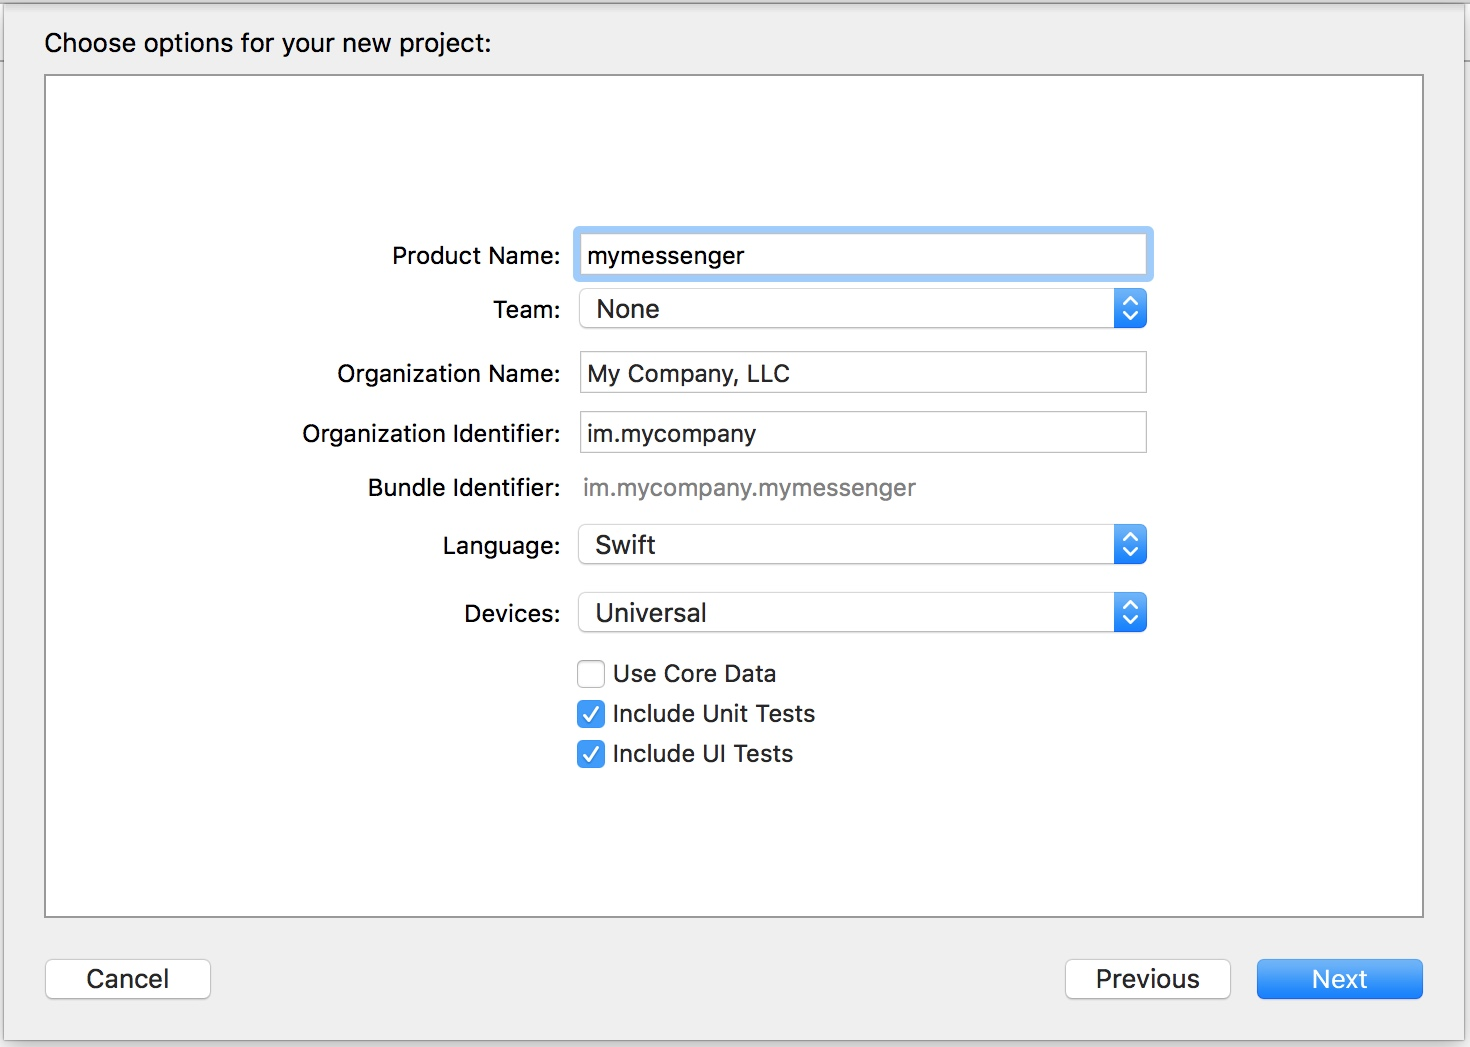
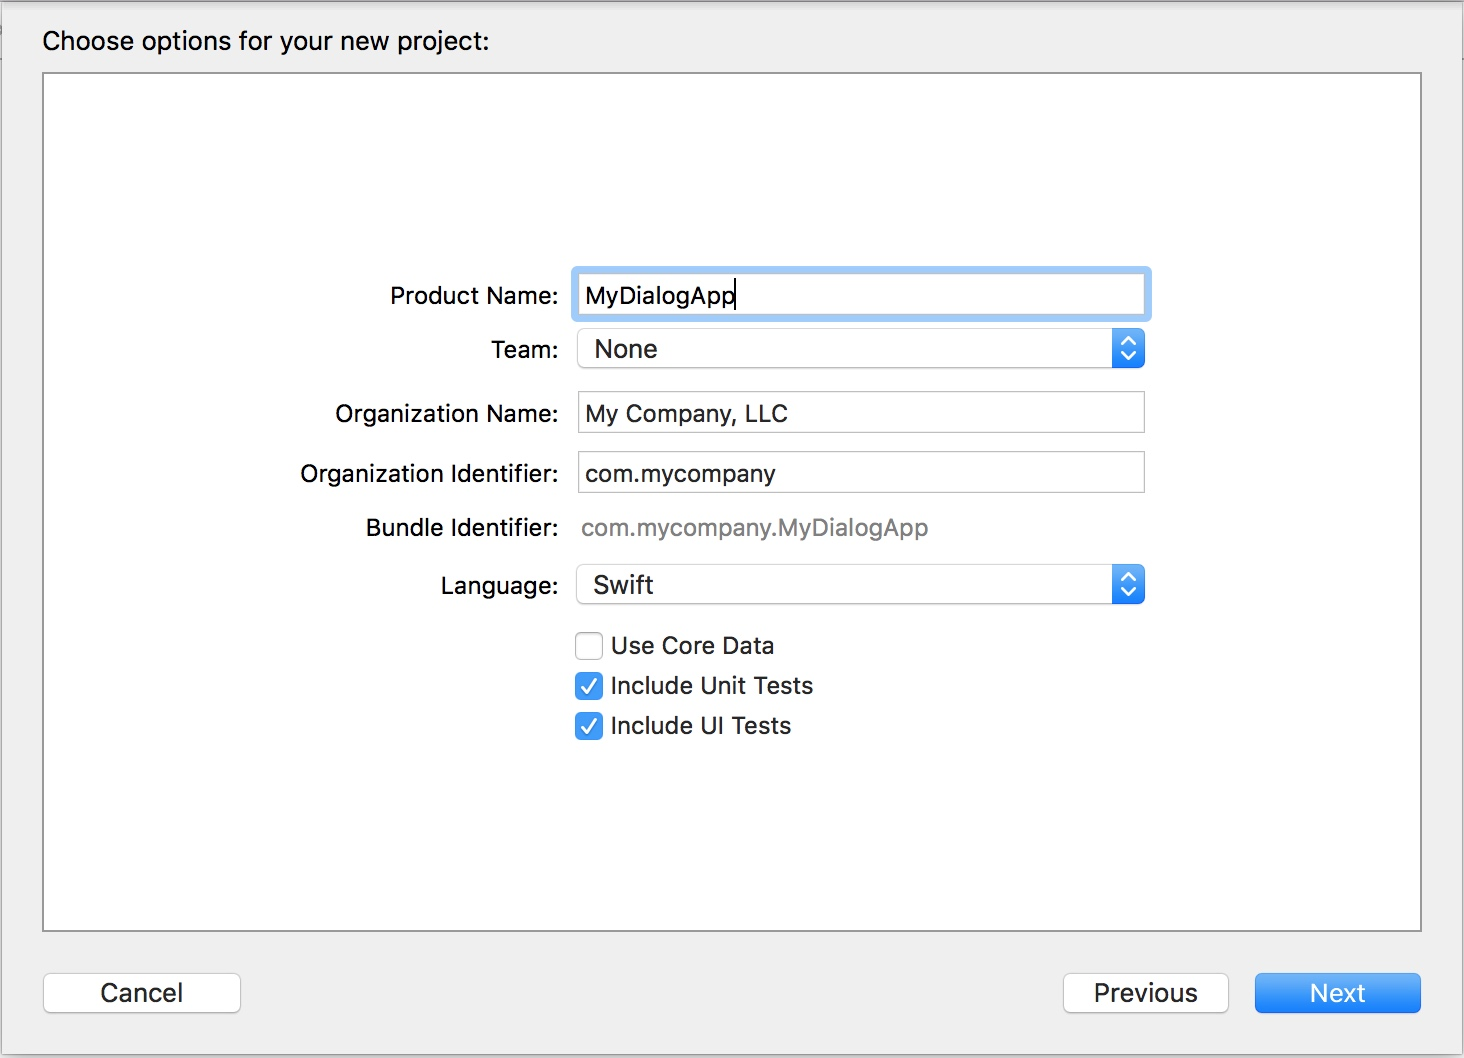
ios(fix): ios app guide updated

Changed region(s): [[0.0, 0.0, 1.0, 1.0], [0.1844, 0.2139, 0.7992, 0.7335], [0.7377, 0.489, 0.7992, 0.6113]]

diff --git a/ios/share-extension.rst b/ios/share-extension.rst
@@ -1,0 +1,206 @@
+.. _share-extension-ios-label:
+
+Share Extension guide
+=====================
+
+To include app share extension it requires to perform two tasks. You need to apply specific project settings and install share extension from a separate CocoaPod.
+
+
+Project configuration steps
+---------------------------
+
+----------------------------------------------------------------------------------------
+Prepare App Group (this one is needed for sharing information between app and extension)
+----------------------------------------------------------------------------------------
+
+* Create application group if it does not exist.
+* Go to developer portal (developer.apple.com), authorize if needed.
+* Go to "Certificates, IDs & Profiles", then go to App Groups.
+* If there is no group or you want to create a new one – create it. Follow page instructions. The easiest way to set unique identifier for app group is add word "group." to you app id (so if you app id is "my.app.identifier” proposed app group id will be "group.my.app.identifier").
+* Remember or write down anywhere chosen application group identifier. From this point we will name it "App Group ID".
+
+
+-------------------------
+Enable App Groups for app
+-------------------------
+
+To be able to use declared app groups you should update your application identifier on developer portal.
+
+* Go to portal again and then to "Certificates, IDs & Profiles". Then select "App IDs". Find and expand app item with your app id. Tap "Edit".
+* Find and turn on App Groups. If portal warning you must regenerate profile for enabling App Groups – agree.
+* Tap "Edit" button agains turned on App Groups. Select group that you created before ("App Group ID"). Sure that selected group is the same you created in the section *Prepare App Group*.
+* Press "Continue" button below. Then press "Assign" button below to confirm changes. Then press "Done" below to return to your App IDs list.
+
+------------------------------------
+Add Share Extension App ID on portal
+------------------------------------
+
+* Go to developer portal (developer.apple.com), authorize if needed.
+* Go to "Certificates, IDs & Profiles”, then go to App IDs.
+* Add a new one by clicking plus on top.
+* Name it as you wish (recommended is <App Name> Share).
+* Set identifier from you target (normally, it's "my.app.identifier.Share")
+* Scroll down to App services and check App Groups.
+* Register new App ID by pressing "Continue" and then "Register" button on the bottom.
+
+-------------------------------------
+Enable App Groups for Share Extension
+-------------------------------------
+
+To be able to use declared app groups you should update your Share Extension identifier on developer portal.
+
+* Go to portal again and then to "Certificates, IDs & Profiles".
+* Select "App IDs", find and expand extension item with your app id, tap "Edit".
+* Find and turn on App Groups. If portal warning you must regenerate profile for enabling App Groups – agree.
+* Tap "Edit" button agains turned on App Groups. Select group that you created before ("App Group ID"). Sure that selected group is the same you created in the section *Prepare App Group*.
+* Press "Continue" button below. Then press "Assign" button below to confirm changes. Then press "Done" below to return to your App IDs list.
+
+
+---------------------------
+Update Provisioning profile
+---------------------------
+
+* Go to portal again and then to "Certificates, IDs & Profiles".
+* Go to All Provisioning Profiles (select "All" under “Provisioning profiles” on the left panel).
+* At this moment you probably have provisioning profiles (like development, ad hoc, distribution and so on). If you already have profiles – now they are probably marked as invalid, so you should recreate them.
+* Select profile, tap "Edit", and on the new screen tap "Generate" below. Download it and open.
+* If you have no profile – just create a new ones. Creating new profile is off-topic for this article.
+
+**Pay attention: you need separate profiles for Share extension!**
+
+----------------------------
+Add target "Share Extension"
+----------------------------
+
+* Go to File → New → Target….Choose "Share Extension". Name it as you wish (this is not the name for user), like "Share". If you see alert titled "Activate scheme?" – activate scheme.
+* Verify that you have two targets: one is an application and other is Share extension. For doing that select your project on the project navigation panel on the left and check content of the panel on the right. There should be at least two targets: one is for application and another one is for share extension. Turn off manual code signing if needed.
+
+----------------------------------------
+Configure App Group and keychain for app
+----------------------------------------
+
+* Return to your project. Select your project file. Select application target and go to “Capabilities” tab.
+* Scroll down to the "Keychain Sharing". Turn it on. By default Xcode creates group names the same as your app id. It’s ok to use it. If there is no keychain group – add it and name it the same as your app like ("my.app.identifier").
+* Scroll down to the "App Groups", turn it on and select group with App Group Id your created in step 1. If there is no group you've just created on portal or you see error icon with "Add the App Groups feature to your App ID" – make sure that you have internet connection and wait for a while.
+
+----------------------------------------------
+Configure App Group and keychain for extension
+----------------------------------------------
+
+* Select you project file, in targets select share extension.
+* Repeat steps from the section *Configure App Group and keychain for app* for selected share extension target.
+
+**Pay attention: Xcode adds your target name as a prefix in keychain id by default, so it looks like "my.app.identifier.Share". That is not right, id should be "my.app.identifier"!**
+
+
+----------------------
+Check everything is OK
+----------------------
+
+Return to your project. Make sure that error "Add the App Groups feature to your App ID" in your targets is no more shown. If you have mistakes – quit xCode and then open workspace again. If errors won’t disappear – try to turn off App Groups, turn it on again and then select needed group.
+
+
+----------------------------
+Fix signing issues if needed
+----------------------------
+
+It’s supposed that you use automatically code signing for extension (no matter what type of signing you use for app), because in that case no extra profiles needed. You’re responsible for fixing signing if you met some problems.
+In that case you usually create another 3 (or more) profiles for Share (like development, ad hoc, distribution).
+
+
+Implementing of Share Extension
+-------------------------------
+
+
+----------------
+Fix dependencies
+----------------
+
+Add pod 'DialExt:
+
+.. code-block
+
+    target 'Share' do
+        pod 'DialExt', :git => 'ssh://git@bitbucket.transmit.im:7999/dlg/dialext.git'
+    end
+
+
+----------------
+Install Dial Ext
+----------------
+
+Open terminal and go to the folder with project where Podfile placed, like "cd ~/Projects/ClientFolder".
+Remove Pods folder and Podfile.lock file and the perform "pod install".
+
+------------------------------------------
+Remember or write down your Keychain Group
+------------------------------------------
+
+Your keychain group will be the following: <TeamID>.<KeychainGroup>, where TeamID is your development Team ID from developer portal (on the Membership page) and KeychainGroup is string that you set in Capabilities for targets.
+I. e. if your Team ID is 123A4567B38 and group is "my.app.identifier" your keychain group will be "123A4567B38.my.app.identifier"
+
+-----------------------------------
+Implement extension view controller
+-----------------------------------
+
+Find in Share files group file “ShareViewController” (it was created automatically by Xcode).
+Fill empty spaces with your keychain group (like “123A4567B38.my.app.identifier”), app group (like "group.my.app.identifier", don't forget group prefix!) and server API address (that would be probably look like https://<#server-address#>/v1/messaging):
+
+.. code-block
+
+    import UIKit
+    import DialExt
+
+    @objc(ShareViewController) class ShareViewController: DESharedDialogsPresentationViewController {
+        override var config: DESharedDataConfig! {
+        return DESharedDataConfig(keychainGroup: "<#Keychain Group#>", appGroup: "<#App Group ID#>", uploadURLs: [URL.init(string: "<#your https api#>")!])
+        }
+    }
+
+-------------------------
+Fix Extension entry point
+-------------------------
+
+* Remove MainInterface.storyboard from Share files group.
+* Open Info.plist, find NSExtension (if there is no key with such name – create a new one, value is Dictionary). Add entry with key: NSExtensionPrincipalClass, value: ShareViewController.
+* Check Main interface field of Share tagret (under “Deployment Info” in General tab) is empty now. If it still contains “MainInterface” – remove it.
+* Change "Bundle display name" to something else (the original name of your app is good).
+
+---------------------------------------------
+Configure SDK to sharing files with extension
+---------------------------------------------
+
+* Go to AppDelegate of your app target.
+* Add following code in place where you configuring SDK:
+
+.. code-block
+
+    let sharedDataConfig = DialogSDK.SharedDataConfig.init(group:"<#App Group ID#>", keychainGroup: "<#Keychain Group#>")
+    DialogSDK.sharedDialog().sharedDataConfig = sharedDataConfig
+
+-------------------------
+Configure Activation Rule
+-------------------------
+
+Activation Rule describes condition, when an item can be shared using share extension.
+Apple does not allow sharing any files, but we provide legal rule, which allowed to share any item that can be represented as Data (bytes sequence).
+
+Select Share target, go to "Info" tab. Expand NSExtension, then expand NSExtensionAttributes. You'll see NSExtensionActivationRule which probably has value "NSTruePredicate". This value is for debug only and your app will be rejected at the review stage because of this. Change the value to predicate:
+
+.. code-block
+
+    SUBQUERY (
+        extensionItems,
+        $extensionItem,
+        SUBQUERY (
+            $extensionItem.attachments,
+            $attachment,
+            ANY $attachment.registeredTypeIdentifiers UTI-CONFORMS-TO "public.data"
+        ).@count == 1
+    ).@count == 1
+
+----------------------------------
+Manage automatic signing if needed
+----------------------------------
+
+If you have problem with automatic signing – create specified profile for extension (probably you want 3 profiles: development, ad hoc and production, optionaly – another one production for CI) and set it in share extension target.

diff --git a/ios/quick-start-guide.rst b/ios/quick-start-guide.rst
@@ -35,7 +35,7 @@ Close xCode and go to the CocoaPods setup.
 CocoaPods setup
 ---------------------
 
-Create **Podfile** in the project root (in the same directory as the **mymessenger.xcodeproj**):
+Create **Podfile** in the project root (in the same directory as the **mydialogapp.xcodeproj**):
 
 .. image:: assets/quick-start-guide/podfile-location.jpg
    :width: 325 px
@@ -46,26 +46,95 @@ Podfile is a plain text file containing the following values:
 
 .. code-block:: xml
 
-    platform :ios, '9.0'
+    platform :ios, '10.0'
     use_frameworks!
 
-    workspace 'mymessenger'
-    xcodeproj 'mymessenger.xcodeproj'
+    workspace 'MyDialogApp'
+    project 'MyDialogApp.xcodeproj'
 
-    target 'mymessenger' do
+    def common_pods
+        pod 'DialExt', :git => 'ssh://git@bitbucket.transmit.im:7999/dlg/dialext.git'
+        pod 'DLGSodium', :git => 'https://github.com/dialogs/swift-sodium.git'
+        pod 'ProtocolBuffers-Swift', '3.0.24'
+        pod 'DiaLogSentry', :git => 'ssh://git@bitbucket.transmit.im:7999/dlg/dialogsentry.git'
+        pod 'RxCocoa',    '~> 3.0'
+    end
 
-    pod 'DialogSDK-iOS' , :git => 'https://bitbucket.transmit.im/scm/dlg/sdk-ios-pod.git'
-    xcodeproj 'mymessenger.xcodeproj'
+    target 'MyDialogApp' do
+
+        pod 'DialogSDK-iOS' , :git => 'https://bitbucket.transmit.im/scm/dlg/sdk-ios-pod.git'
+        pod 'DialogWebRTC', :git => 'https://bitbucket.transmit.im/scm/dlg/dialog-webrtc-ios-pod.git', :tag => '63.2.20237'
+        pod 'FeltPen', :git => 'ssh://git@bitbucket.transmit.im:7999/dlg/feltpen.git'
+        pod 'RxSwift',   :git => 'https://github.com/dialogs/RxSwift.git', :branch => 'fix/signatures'
+
+        pod 'ClosePixelate'
+
+        # React
+        system "yarn install"
+        pod 'React', :path => './node_modules/react-native', :subspecs => [
+            'Core',
+            'RCTText',
+            'RCTImage',
+            'RCTNetwork',
+            'BatchedBridge',
+            'RCTAnimation'
+        ]
+        pod 'Yoga', :path => './node_modules/react-native/ReactCommon/yoga'
+        pod 'BVLinearGradient', :path => './node_modules/react-native-linear-gradient'
+
+        common_pods
 
     end
 
-Open **Terminal** and run ``pod install``. The installation process can take a few minutes, depending on the speed of the Internet connection. Loading of the framework (``Pre-downloading: `DialogSDK-iOS```) takes most of the time.
 
-.. image:: assets/quick-start-guide/pod-install.jpg
-   :width: 600 px
-   :align: center
+    post_install do |installer|
 
-The **mymessenger.xcworkspace** file should appear in the project directory. Double click on it, the xCode will open (it's important to open this file, not **mymessenger.xcodeproj**). Note: if you are using the Git version control system, it is recommended to add the following configuration to the **.gitignore** (otherwise you will get several gigabytes of dependencies in your Git-repository):
+        # Fix for
+        # https://github.com/CocoaPods/CocoaPods/issues/7003
+        copy_pods_resources_path = "Pods/Target Support Files/Pods-MyDialogApp/Pods-MyDialogApp-resources.sh"
+        string_to_replace = '--compile "${BUILT_PRODUCTS_DIR}/${UNLOCALIZED_RESOURCES_FOLDER_PATH}"'
+        assets_compile_with_app_icon_arguments = '--compile "${BUILT_PRODUCTS_DIR}/${UNLOCALIZED_RESOURCES_FOLDER_PATH}" --app-icon "${ASSETCATALOG_COMPILER_APPICON_NAME}" --output-partial-info-plist "${BUILD_DIR}/assetcatalog_generated_info.plist"'
+        text = File.read(copy_pods_resources_path)
+        new_contents = text.gsub(string_to_replace, assets_compile_with_app_icon_arguments)
+        File.open(copy_pods_resources_path, "w") {|file| file.puts new_contents }
+
+
+        installer.pods_project.targets.each do |target|
+            if target.name == 'DialExt'
+                target.build_configurations.each do |config|
+                    config.build_settings['SWIFT_VERSION'] = '4.0'
+                end
+            end
+        end
+    end
+
+
+Create **package.json** file in the project root. It contains the following values:
+
+.. code-block:: json
+
+    {
+      "name": "MyReactNativeApp",
+      "version": "0.0.0",
+      "private": true,
+      "scripts": {
+        "start": "node node_modules/react-native/local-cli/cli.js start",
+        "build": "node node_modules/react-native/local-cli/cli.js bundle --platform ios --dev false --entry-file coop-connect/js/index.js --bundle-output coop-connect/Resources/coop.jsbundle --assets-dest coop-connect/Resources/react-native",
+        "postinstall": "sed -i '' 's\/#import <RCTAnimation\\/RCTValueAnimatedNode.h>\/#import \"RCTValueAnimatedNode.h\"\/' ./node_modules/react-native/Libraries/NativeAnimation/RCTNativeAnimatedNodesManager.h"
+      },
+      "dependencies": {
+        "@dlghq/dialog-native-components": "0.7.8",
+        "react": "16.0.0-alpha.12",
+        "react-native": "0.47.1"
+      }
+    }
+
+    
+Open **Terminal** and run ``brew install node``. Wait until the installation is complete and than run ``npm install``.
+
+Preparatory work completed, run ``pod install``. The installation process can take a few minutes, depending on the speed of the Internet connection. Loading of the framework (``Pre-downloading: `DialogSDK-iOS```) takes most of the time.
+
+The **MyDialogApp.xcworkspace** file should appear in the project directory. Double click on it, the xCode will open (it's important to open this file, not **MyDialogApp.xcodeproj**). Note: if you are using the Git version control system, it is recommended to add the following configuration to the **.gitignore** (otherwise you will get several gigabytes of dependencies in your Git-repository):
 
 .. code-block:: xml
 
@@ -73,7 +142,7 @@ The **mymessenger.xcworkspace** file should appear in the project directory. Dou
     Podfile.lock
     Pods/
 
-It also makes sense to add the MyDialogApp.xcworkspace file to the exceptions list, because of it is generated automatically.
+It also makes sense to add the **MyDialogApp.xcworkspace** file to the exceptions list, because of it is generated automatically.
 
 App initializing
 ----------------
@@ -97,7 +166,7 @@ Remove **ViewController.swift** and **Main.storyboard** files (choose "Move to T
 
     //
     //  AppDelegate.swift
-    //  mymessenger
+    //  MyDialogApp
     //
     //  Copyright © 2017 My Company, LLC. All rights reserved.
     //

diff --git a/ios/common-application-settings.rst b/ios/common-application-settings.rst
@@ -3,7 +3,7 @@
 Common application settings
 ===========================
 
-For the full operation of the dialog SDK, you need a number settings and of user permissions in **Info.plist**. It's the base configuration file of your iOS application:
+For the correct operation of the dialog SDK, you need a number of settings and user permissions in **Info.plist**. It's the base configuration file of your iOS application:
 
 .. image:: assets/common-application-settings/info-plist-location.jpg
    :width: 309 px

diff --git a/ios.rst b/ios.rst
@@ -2,8 +2,9 @@ iOS SDK
 =======
 
 .. toctree::
-  ios/overview
-  ios/quick-start-guide
-  ios/sdk-customization-checklist
-  ios/common-application-settings
-  ios/application-services-and-certificates
+	ios/overview
+	ios/quick-start-guide
+	ios/sdk-customization-checklist
+	ios/common-application-settings
+	ios/application-services-and-certificates
+	ios/share-extension
